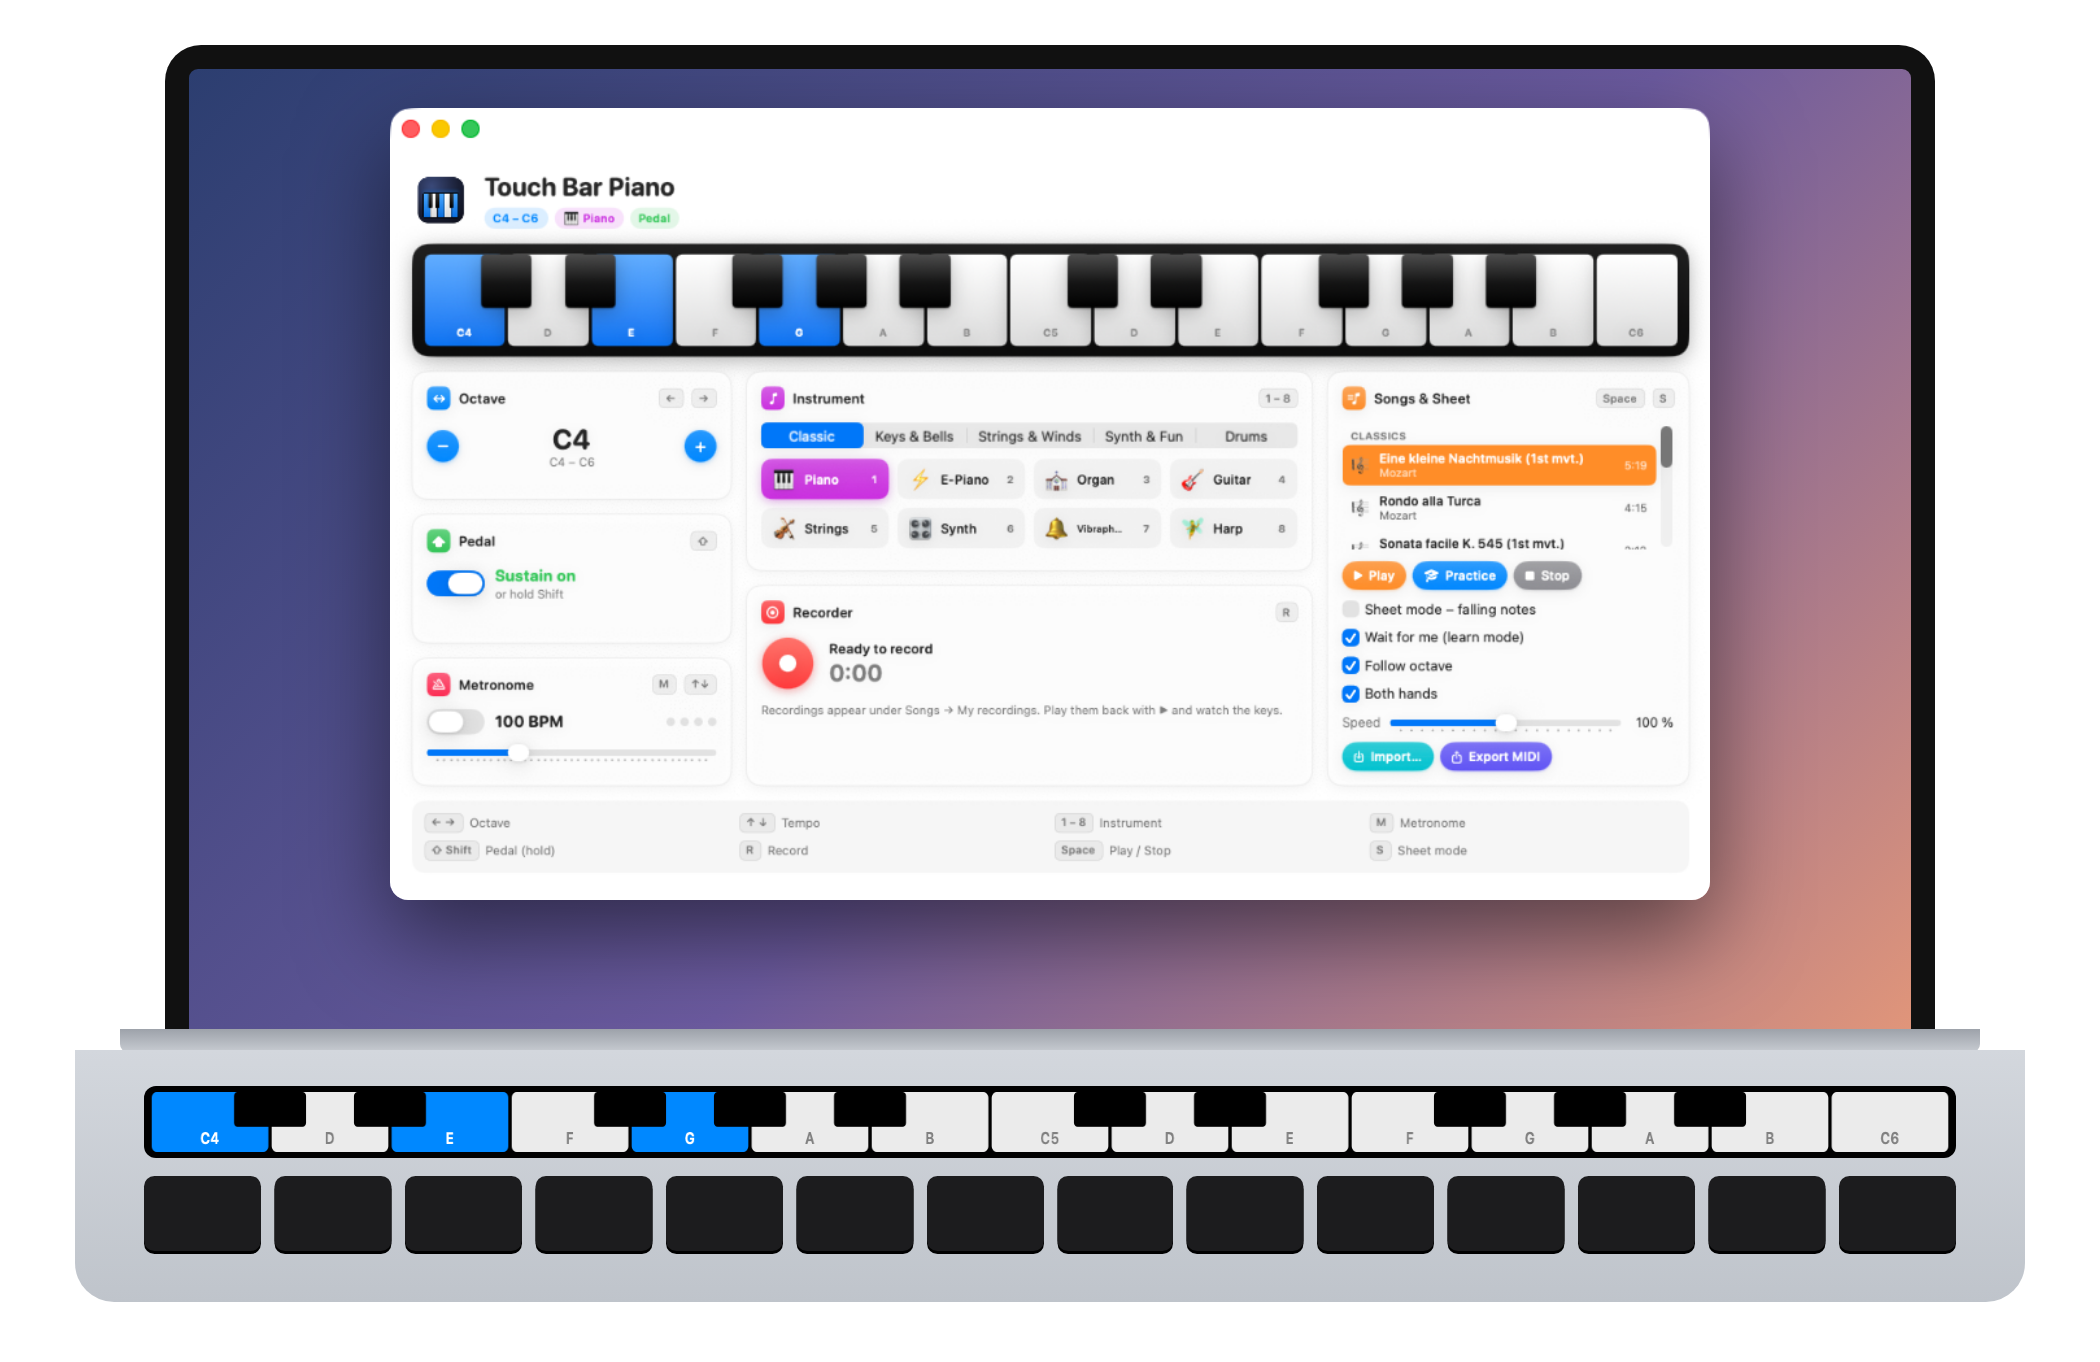
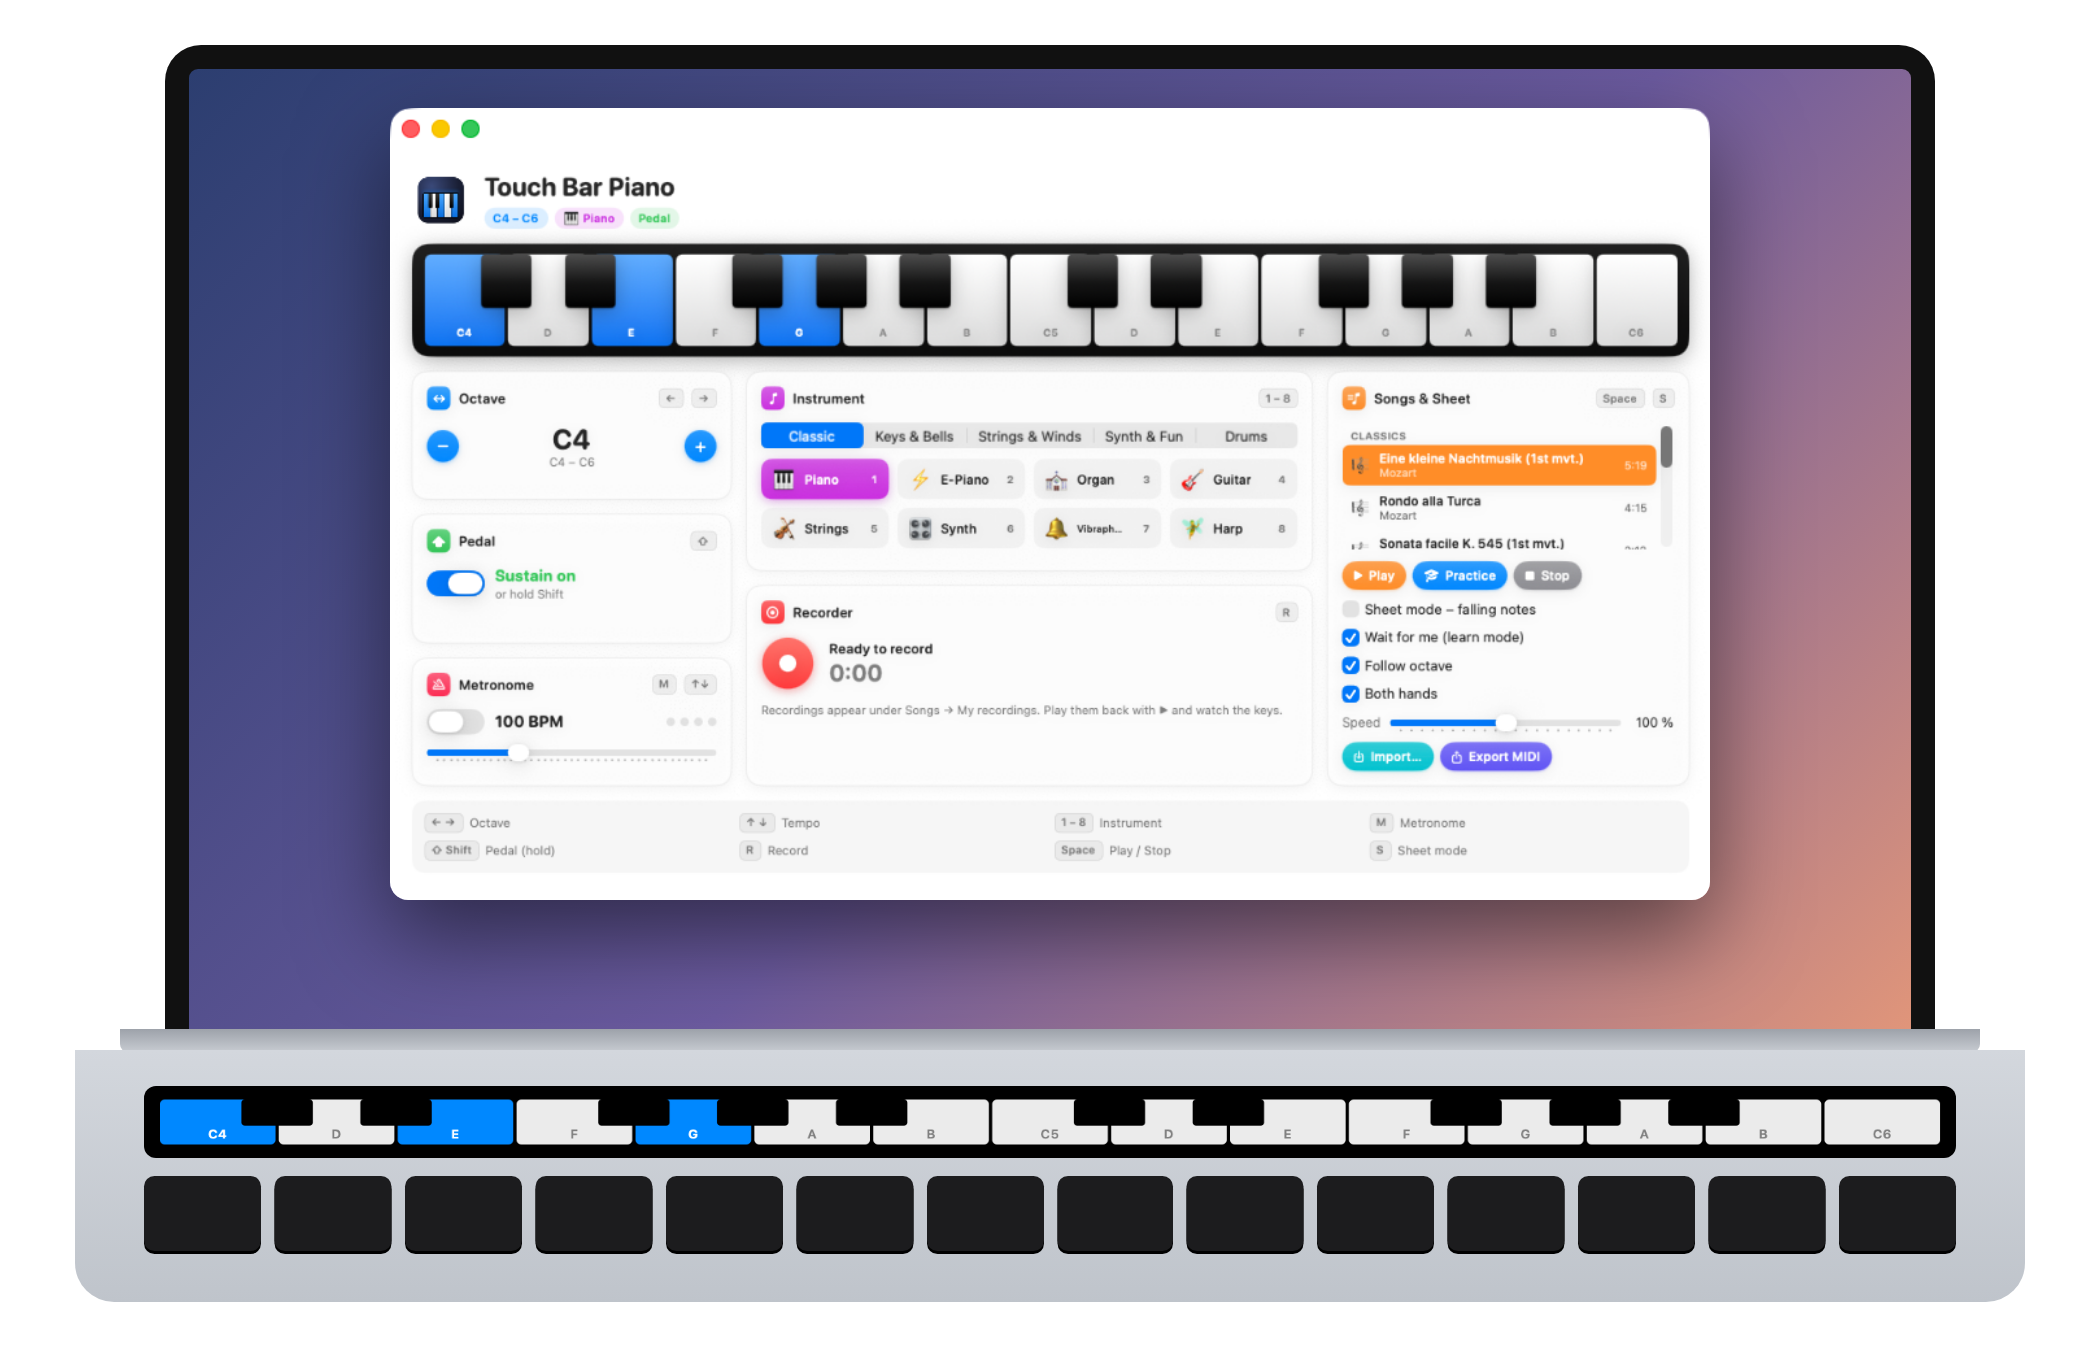
Update CLAUDE.md (status, branches, tools); add README image tools
Claude-Session: https://claude.ai/code/session_01Sk4P59ezPqq8GNnCPdJYPL

Changed region(s): [[0.0619, 0.8018, 0.9286, 0.8634]]

diff --git a/tools/hero.html b/tools/hero.html
@@ -1,0 +1,17 @@
+<!doctype html><html><head><meta charset="utf-8"><style>
+body{margin:0;background:transparent;font-family:-apple-system,"Helvetica Neue",Arial,sans-serif;width:1400px}
+.wrap{padding:30px 50px 40px}
+.screen{background:#111;border-radius:24px 24px 0 0;padding:16px 16px 0;margin:0 60px}
+.display{height:640px;background:linear-gradient(135deg,#2c3e70,#6b5a9e 55%,#e0957a);border-radius:6px 6px 0 0;position:relative;overflow:hidden}
+.win{position:absolute;left:50%;top:26px;transform:translateX(-50%);width:880px;border-radius:12px;box-shadow:0 24px 60px rgba(0,0,0,.5)}
+.hinge{height:16px;background:linear-gradient(#9da2aa,#c9cdd3);border-radius:0 0 6px 6px;margin:0 30px}
+.deck{background:linear-gradient(#d3d7dd,#bfc4cb);border-radius:0 0 26px 26px;padding:24px 46px 34px;margin-top:-2px}
+.tb{background:#000;border-radius:8px;padding:4px;display:flex}
+.tb img{width:100%;height:40px;object-fit:fill;display:block}
+.row{display:flex;gap:9px;margin-top:12px}
+.k{flex:1;height:50px;border-radius:7px;background:#1c1c1e;box-shadow:0 2px 0 #000}
+</style></head><body><div class="wrap">
+<div class="screen"><div class="display"><img class="win" src="../docs/window-main.png"></div></div>
+<div class="hinge"></div>
+<div class="deck"><div class="tb"><img src="../docs/touchbar-main.png"></div><div class="row" id="r"></div></div>
+</div><script>for(let i=0;i<14;i++){const k=document.createElement('div');k.className='k';document.getElementById('r').appendChild(k)}</script></body></html>

diff --git a/tools/readme_assets.py b/tools/readme_assets.py
@@ -1,0 +1,71 @@
+#!/usr/bin/env python3
+"""Builds the README images in docs/ from the CI `snapshot` artifact.
+
+  gh run download <run-id> -n snapshot -D /tmp/snap     # or download the artifact zip
+  pip install pillow
+  python3 tools/readme_assets.py /tmp/snap               # needs node + playwright for docs/hero.png
+
+Window/Touch Bar images are real app renders; only the MacBook in hero.png is an HTML illustration.
+All images are saved without metadata (no ICC profile, no text chunks).
+"""
+import os, subprocess, sys
+from PIL import Image, ImageDraw
+
+src = sys.argv[1]
+root = os.path.join(os.path.dirname(os.path.abspath(__file__)), "..")
+out = os.path.join(root, "docs")
+
+def save(im, name):
+    im.info.pop("icc_profile", None)
+    im.save(os.path.join(out, name), optimize=True)
+
+def window(name):
+    """Window screenshot, empty bottom cropped, rounded corners."""
+    im = Image.open(f"{src}/window_{name}.png").convert("RGBA")
+    w, h = im.size
+    bg = im.getpixel((w // 2, h - 3))
+    y = h - 1
+    while y > 100 and all(abs(a - b) < 6 for x in range(20, w - 20, 7) for a, b in zip(im.getpixel((x, y))[:3], bg[:3])):
+        y -= 1
+    im = im.crop((0, 0, w, min(h, y + 22)))
+    mask = Image.new("L", im.size, 0)
+    ImageDraw.Draw(mask).rounded_rectangle((0, 0, im.size[0] - 1, im.size[1] - 1), 12, fill=255)
+    im.putalpha(Image.composite(im.split()[3], Image.new("L", im.size, 0), mask))
+    return im
+
+def strip(name):
+    """Touch Bar render on a black rounded bar."""
+    tb = Image.open(f"{src}/touchbar_{name}.png").convert("RGBA")
+    c = Image.new("RGBA", (tb.width + 20, tb.height + 20), (0, 0, 0, 0))
+    ImageDraw.Draw(c).rounded_rectangle((0, 0, c.width - 1, c.height - 1), 14, fill=(0, 0, 0, 255))
+    c.alpha_composite(tb, (10, 10))
+    return c
+
+for n in ["main", "sheet", "drums", "record"]:
+    save(window(n), f"window-{n}.png")
+for n in ["main", "drums"]:
+    save(strip(n), f"touchbar-{n}.png")
+
+# demo.gif: header + falling notes from the window, Touch Bar below (frames f00..f35)
+frames = []
+for i in range(36):
+    w = Image.open(f"{src}/window_f{i:02d}.png").convert("RGB")
+    top = w.crop((0, 30, w.width, 325))
+    tb = strip(f"f{i:02d}")
+    tb = tb.resize((top.width - 40, int(tb.height * (top.width - 40) / tb.width)), Image.LANCZOS)
+    f = Image.new("RGB", (top.width, top.height + tb.height + 30), (236, 236, 236))
+    f.paste(top, (0, 0)); f.paste(tb, (20, top.height + 12), tb)
+    frames.append(f.resize((f.width * 3 // 4, f.height * 3 // 4), Image.LANCZOS).convert("P", palette=Image.ADAPTIVE, colors=128))
+frames[0].save(os.path.join(out, "demo.gif"), save_all=True, append_images=frames[1:], duration=330, loop=0, optimize=True)
+
+# hero.png: real window + Touch Bar inside the MacBook illustration (tools/hero.html), rendered with Playwright
+js = """
+const {chromium}=require('playwright');(async()=>{const b=await chromium.launch();
+const pg=await b.newPage({viewport:{width:1400,height:600},deviceScaleFactor:1.5});
+await pg.goto('file://'+process.argv[1]);await pg.waitForLoadState('load');
+const h=await pg.evaluate(()=>document.body.scrollHeight);await pg.setViewportSize({width:1400,height:h});
+await pg.screenshot({path:process.argv[2],omitBackground:true});await b.close()})()"""
+hero = os.path.join(out, "hero.png")
+subprocess.run(["node", "-e", js, os.path.join(root, "tools", "hero.html"), hero], check=True)
+save(Image.open(hero), "hero.png")
+print("docs/ updated")

diff --git a/CLAUDE.md b/CLAUDE.md
@@ -3,10 +3,18 @@
 macOS app that turns the MacBook Pro Touch Bar into a piano (Swift, AppKit + SwiftUI, no Xcode project).
 Public repo: github.com/maylaender/touchbar-piano · current release: see `VERSION`.
 
+## Current status (update this section when it changes)
+- Stable: **v3.1** on `main` (complete two-hand songs, follow-octave and both-hands toggles).
+- Waiting for the owner's test: **v3.2-beta** on branch `v3.2-beta` (pre-release) – Touch Bar keys are laid out in
+  the *visible* area (`PianoView.area`) so the rightmost key is no longer cut off in full-width mode.
+  If the owner confirms: merge into `main`, set `VERSION` to `v3.2`, update `CHANGELOG.md` + `release-notes.md`.
+
 ## Working with the owner
 - Answer in **German** (Swiss: no "ß", keyboard has no direct `[ ]`). Code, commits and README in English.
 - The owner values **short answers, low effort, efficiency**. Short plan first for bigger features, then build.
 - Owner tests on a **MacBook Pro 13" 2019 (Intel, Touch Bar)**. You usually cannot: say clearly what was and was not verified.
+- Ask the owner whether a change ships as **beta** (pre-release for testing, e.g. hardware-only fixes) or directly as
+  a stable release. Explain plans and results without jargon.
 
 ## 🔒 Privacy – most important rule
 The repo is public. **No personal data, credentials or keys – ever, in any commit.**
@@ -29,13 +37,14 @@ The repo is public. **No personal data, credentials or keys – ever, in any com
 - **Release = change `VERSION` and push.** The session cannot create releases or push tags itself;
   the workflow creates tag + release when `VERSION` has no release yet. Versions containing `beta` become
   pre-releases. Release text comes from `release-notes.md`.
-- Betas live on their own branch (e.g. `beta`, `v3`), stable work is merged into `main`.
+- Work happens on a branch per version (e.g. `v3.1`, `v3.2-beta`); stable work is merged into `main` (fast-forward).
+  **A new branch must be added to `on.push.branches` in the workflow**, otherwise CI does not build it.
 
 ## Code map (`Sources/`)
 | File | Content |
 |---|---|
 | `main.swift` | App start, window, keyboard shortcuts (local event monitor), CI snapshot sequence |
-| `Model.swift` | `AppState` (ObservableObject): octave, instrument, pedal, metronome, recorder, playback, learn mode, library; localisation `L(en, de)`; 32 instruments; `KeyLayout` geometry |
+| `Model.swift` | `AppState` (ObservableObject): octave, instrument, pedal, metronome, recorder, playback, learn mode, `followOctave`, `bothHands`, library (user songs in `~/Library/Application Support/Touch Bar Piano/songs.json`); localisation `L(en, de)`; 32 instruments; `KeyLayout` geometry |
 | `Audio.swift` | `AVAudioEngine` + 3 samplers (keys, drums, metronome) from macOS `gs_instruments.dls` |
 | `TouchBar.swift` | `PianoView` (multitouch), `BarProvider`, `SystemModal` = private API for full-width system-wide bar, Esc hidden |
 | `UI.swift` | SwiftUI window: header, live keyboard + falling notes, cards, shortcut bar |
@@ -43,9 +52,16 @@ The repo is public. **No personal data, credentials or keys – ever, in any com
 
 Global singletons: `state` (AppState), `provider` (BarProvider).
 
-**Songs:** `Songs/*.mid` (bundled into the app by `build.sh`) are generated by `tools/make_songs.py` from verified
-sources listed in `Songs/SOURCES.md` – track 1 = melody, track 2 = accompaniment. Never write song notes from memory;
-take them from a public-domain edition and record the source + licence in `SOURCES.md`.
+## Tools (`tools/`)
+| Tool | Purpose |
+|---|---|
+| `make_songs.py` | Builds `Songs/*.mid` (bundled into the app by `build.sh`) from verified sources in `Songs/SOURCES.md`: track 1 = melody (top voice, ornaments removed), track 2 = accompaniment. K. 265 is a manual transcription inside the script. Needs `pip install mido`. |
+| `readme_assets.py` | Builds all `docs/` images (screenshots, `demo.gif`, `hero.png`) from the CI `snapshot` artifact; strips metadata. Needs Pillow, plus node + Playwright for `hero.png` (MacBook illustration in `tools/hero.html`). |
+
+**Songs:** never write notes from memory – take them from a public-domain edition (Mutopia, IMSLP) and record
+source + licence in `Songs/SOURCES.md` (`sonata-facile.mid` is CC BY-SA 3.0, all others public domain).
+IMSLP shows a bot check to automated downloads – do not bypass it; ask the owner for a direct file link instead.
+`icon.png` is a static asset (no generator).
 
 ## Conventions
 - Keep it simple: plain `swiftc`, no packages, no Xcode project.
@@ -56,8 +72,9 @@ take them from a public-domain edition and record the source + licence in `SOURC
   (e.g. no `Grid`, no `.onChange` with two parameters, no `NavigationSplitView`).
 - SwiftUI is not captured by `cacheDisplay` → CI window screenshots use `screencapture -l<windowNumber>`;
   the CI screen is 1024×768, so snapshot mode renders the layout scaled (`snapshotScale`).
-- README images in `docs/` are generated from the CI `snapshot` artifact (hero = real window + Touch Bar
-  inside an HTML MacBook illustration rendered with Playwright). Always label illustrations as such.
+- README images in `docs/` come from `tools/readme_assets.py` (see Tools). Always label illustrations as such.
+- The keyboard on the Touch Bar may be narrower than requested in full-width mode – lay out and hit-test keys in
+  `PianoView.area` (visible rect), never in `bounds`.
 
 ## Known limits / ideas
 - Not verifiable in CI: touch input, audio, pedal, drum sounds (no Touch Bar, no audio device).
